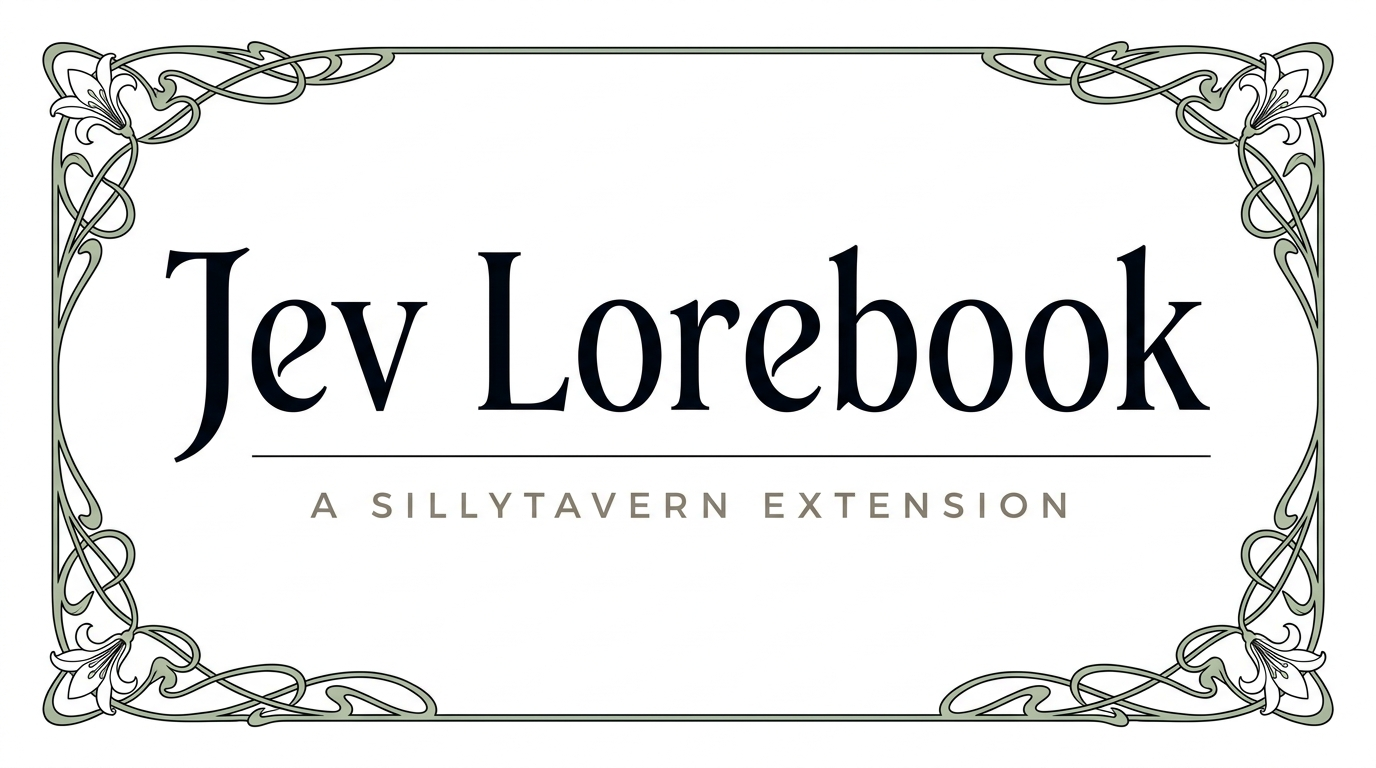
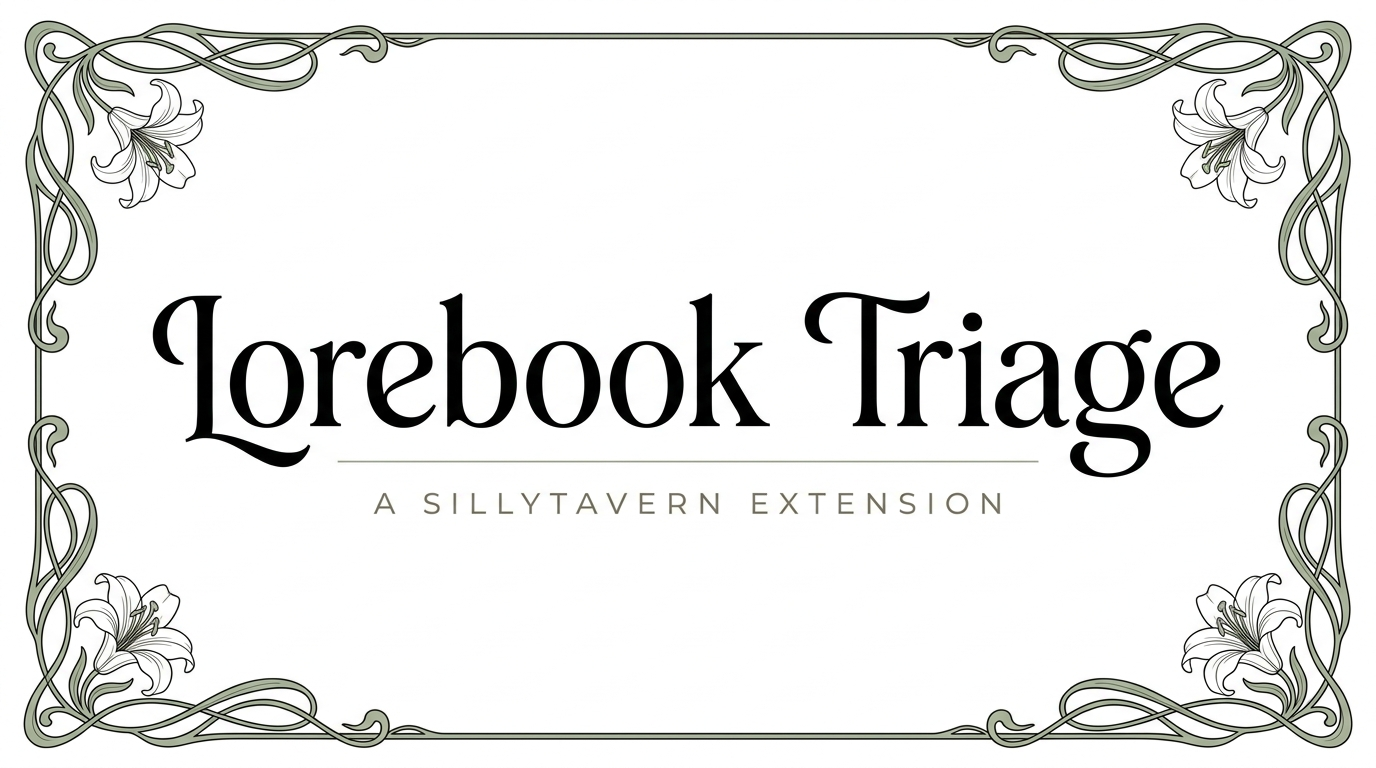
이름 확정: Lorebook Triage
- 확장 표시명·로그 프리픽스·템플릿 경로를 lorebook-triage로 통일
- 배너 재생성 (Lorebook Triage)
- Jev는 판정 API 이름으로만 남김

Changed region(s): [[0.0, 0.0312, 1.0, 1.0], [0.0938, 0.3125, 0.9062, 0.6875]]

diff --git a/index.js b/index.js
@@ -1,5 +1,5 @@
 /**
- * Jev Lorebook — 로어북 장기기억을 벡터 검색 + Jev 3축 판정으로 주입하는 확장 (v0.3, A안 배관)
+ * Lorebook Triage — 로어북 장기기억을 벡터 검색 + Jev 3축 판정으로 주입하는 확장 (v0.3, A안 배관)
  *
  * 흐름 (매 생성, generate_interceptor):
  *   최근 유저 메시지 → /api/vector/query (palm=Gemini) → 후보 topK
@@ -26,8 +26,8 @@ import { ConnectionManagerRequestService } from '../../shared.js';
 import { hideChatMessageRange } from '../../../chats.js';
 
 const MODULE = 'jevLorebook';
-const TEMPLATE_PATH = 'third-party/jev-lorebook';
-const LOG = '[Jev Lorebook]';
+const TEMPLATE_PATH = 'third-party/lorebook-triage';
+const LOG = '[Lorebook Triage]';
 
 // api.typesafe.ai는 브라우저 오리진을 CORS로 거부한다 → 서버 경유 필수. 전송 경로 2개를 자동 감지한다 (v0.4.1):
 // 1순위 — jev-proxy 서버 플러그인: 키는 X-Jev-Key 헤더 (Authorization은 basicAuthMode가 선점 — 2026-09-20 실측)
@@ -426,7 +426,7 @@ async function jevLorebookInterceptor(chat, _contextSize, _abort, type) {
     // quiet도 판정한다: QR/스크립트 경유 RP는 실턴이 전부 type=quiet로 들어온다 (2026-09-20 실측).
     // 같은 턴의 연쇄 quiet 생성은 아래 판정 캐시가 Jev 중복 호출을 막는다.
     if (!settings.jevApiKey) {
-        toastr.error('Jev API 키가 필요해요. 이번 턴은 주입 없이 넘어갈게요. (폴백은 없어요)', 'Jev Lorebook');
+        toastr.error('Jev API 키가 필요해요. 이번 턴은 주입 없이 넘어갈게요. (폴백은 없어요)', 'Lorebook Triage');
         return;
     }
 
@@ -564,7 +564,7 @@ async function jevLorebookInterceptor(chat, _contextSize, _abort, type) {
         lastError = { ts: Date.now(), message: String(error?.message ?? error) };
         jevTransport = null; // 판정 실패 → 다음 턴 전송 경로 재감지 (플러그인/프록시가 중간에 꺼진 경우 대응)
         console.error(`${LOG} 실패 — 이번 턴 주입 0 (폴백 없음)`, error);
-        toastr.error(`Jev 판정에 실패했어요: ${error?.message ?? error}. 이번 턴은 주입 없이 넘어갈게요.`, 'Jev Lorebook');
+        toastr.error(`Jev 판정에 실패했어요: ${error?.message ?? error}. 이번 턴은 주입 없이 넘어갈게요.`, 'Lorebook Triage');
     }
 }
 
@@ -609,7 +609,7 @@ async function indexLorebook() {
     const settings = getSettings();
     const worlds = getTargetWorlds();
     if (!worlds.length) {
-        toastr.warning('색인할 대상이 없어요. 이 채팅/캐릭터에 로어북을 연결하거나, 설정에서 고정 대상을 선택해 주세요.', 'Jev Lorebook');
+        toastr.warning('색인할 대상이 없어요. 이 채팅/캐릭터에 로어북을 연결하거나, 설정에서 고정 대상을 선택해 주세요.', 'Lorebook Triage');
         return;
     }
 
@@ -625,19 +625,19 @@ async function indexLorebook() {
         }
 
         if (!totalItems) {
-            toastr.warning('색인할 항목이 없어요 (활성 상태이면서 본문이 있는 항목이 없어요).', 'Jev Lorebook');
+            toastr.warning('색인할 항목이 없어요 (활성 상태이면서 본문이 있는 항목이 없어요).', 'Lorebook Triage');
             $status.text('');
             return;
         }
 
         $status.text(`색인 완료: ${worlds.length}개 로어북 / ${totalItems}개 항목 (${new Date().toLocaleTimeString()})`);
-        toastr.success(`${totalItems}개 항목 색인을 마쳤어요 — ${worlds.join(', ')}`, 'Jev Lorebook');
+        toastr.success(`${totalItems}개 항목 색인을 마쳤어요 — ${worlds.join(', ')}`, 'Lorebook Triage');
         settings.embeddingDirty = false; // 새 임베딩 설정으로 재색인 완료 — 경고 해제
         saveSettingsDebounced();
         $('#jev_lorebook_reindex_warning').hide();
     } catch (error) {
         console.error(`${LOG} 색인 실패`, error);
-        toastr.error(`색인에 실패했어요: ${error?.message ?? error}`, 'Jev Lorebook');
+        toastr.error(`색인에 실패했어요: ${error?.message ?? error}`, 'Lorebook Triage');
         $status.text('색인에 실패했어요');
     } finally {
         $button.removeClass('disabled');
@@ -831,19 +831,19 @@ function getConvertProfileLabel() {
  */
 async function convertChatToLorebook(setStatus) {
     if (conversionInProgress) {
-        toastr.warning('변환이 이미 진행 중이에요.', 'Jev Lorebook');
+        toastr.warning('변환이 이미 진행 중이에요.', 'Lorebook Triage');
         return;
     }
     const settings = getSettings();
     const ctx = SillyTavern.getContext();
     const world = getConversionTargetWorld();
     if (!world) {
-        toastr.error('대상 로어북이 없어요. 이 채팅 또는 캐릭터 카드에 로어북을 먼저 연결해 주세요. (자동으로 만들지는 않아요)', 'Jev Lorebook');
+        toastr.error('대상 로어북이 없어요. 이 채팅 또는 캐릭터 카드에 로어북을 먼저 연결해 주세요. (자동으로 만들지는 않아요)', 'Lorebook Triage');
         return;
     }
     const chat = ctx.chat ?? [];
     if (!chat.length) {
-        toastr.warning('채팅이 비어 있어요.', 'Jev Lorebook');
+        toastr.warning('채팅이 비어 있어요.', 'Lorebook Triage');
         return;
     }
     const keepRecent = Number.isFinite(Number(settings.keepRecent)) ? Math.max(0, Number(settings.keepRecent)) : defaultSettings.keepRecent;
@@ -851,7 +851,7 @@ async function convertChatToLorebook(setStatus) {
     const endIndex = chat.length - keepRecent; // 보존 버퍼 경계 — 변환·숨김 모두 여기까지만
     const fresh = endIndex > startIndex ? collectFreshMessages(chat, startIndex, endIndex) : [];
     if (!fresh.length) {
-        toastr.info(`변환할 새 메시지가 없어요 (변환 지점 ${startIndex}, 최근 ${keepRecent}개 보존, 전체 ${chat.length}).`, 'Jev Lorebook');
+        toastr.info(`변환할 새 메시지가 없어요 (변환 지점 ${startIndex}, 최근 ${keepRecent}개 보존, 전체 ${chat.length}).`, 'Lorebook Triage');
         return;
     }
 
@@ -944,12 +944,12 @@ async function convertChatToLorebook(setStatus) {
 
         const ms = Math.round(performance.now() - t0);
         setStatus(`완료: 사건 ${incidents.length}건 추가 · 코어 ${coreState ? '갱신' : '미갱신'} · ${indexed}개 색인 · 메시지 ${hiddenCount}개 변환·숨김, 최근 ${keepRecent}개 유지 (${ms}ms)`);
-        toastr.success(`변환을 마쳤어요: 사건 ${incidents.length}건 · 메시지 ${hiddenCount}개 숨김 · 최근 ${keepRecent}개는 원문 유지 — ${world}. 여기를 누르면 에디터에서 바로 확인할 수 있어요.`, 'Jev Lorebook', { onclick: () => openWorldEditor(world), timeOut: 10000 });
+        toastr.success(`변환을 마쳤어요: 사건 ${incidents.length}건 · 메시지 ${hiddenCount}개 숨김 · 최근 ${keepRecent}개는 원문 유지 — ${world}. 여기를 누르면 에디터에서 바로 확인할 수 있어요.`, 'Lorebook Triage', { onclick: () => openWorldEditor(world), timeOut: 10000 });
         console.log(`${LOG} 변환 완료 — 사건 ${incidents.length}건 / 변환 지점 ${startIndex}→${endIndex} / 숨김 ${hiddenCount}개 / ${ms}ms`);
     } catch (error) {
         console.error(`${LOG} 변환 실패`, error);
         setStatus(`실패했어요: ${error?.message ?? error}`);
-        toastr.error(`변환에 실패했어요: ${error?.message ?? error}`, 'Jev Lorebook');
+        toastr.error(`변환에 실패했어요: ${error?.message ?? error}`, 'Lorebook Triage');
     } finally {
         conversionInProgress = false;
     }
@@ -1067,7 +1067,7 @@ async function runSplitForWorld(world, uids, setStatus) {
 async function openSplitDialog(setStatus, $panel) {
     const worlds = getTargetWorlds();
     if (!worlds.length) {
-        toastr.error('대상 로어북이 없어요. 이 채팅/캐릭터에 로어북을 연결하거나 고정 대상을 설정해 주세요.', 'Jev Lorebook');
+        toastr.error('대상 로어북이 없어요. 이 채팅/캐릭터에 로어북을 연결하거나 고정 대상을 설정해 주세요.', 'Lorebook Triage');
         return;
     }
 
@@ -1110,7 +1110,7 @@ async function openSplitDialog(setStatus, $panel) {
     }
 
     if (!listedCount) {
-        toastr.info('스플릿할 항목이 없어요 (본문이 있는 항목이 없어요).', 'Jev Lorebook');
+        toastr.info('스플릿할 항목이 없어요 (본문이 있는 항목이 없어요).', 'Lorebook Triage');
         return;
     }
     $dialog.append($('<div class="jev-panel-muted">').text(`기본으로 ${candidateCount}개를 체크해 뒀어요 = 스플릿 후보 (날짜헤더 2개 이상 또는 대형 constant). 목록을 확인하고 체크를 자유롭게 바꾸셔도 돼요.`));
@@ -1135,7 +1135,7 @@ async function openSplitDialog(setStatus, $panel) {
         selection.get(world).push(uid);
     });
     if (!selection.size) {
-        toastr.info('선택된 항목이 없어서 아무것도 바꾸지 않았어요.', 'Jev Lorebook');
+        toastr.info('선택된 항목이 없어서 아무것도 바꾸지 않았어요.', 'Lorebook Triage');
         return;
     }
 
@@ -1151,7 +1151,7 @@ async function openSplitDialog(setStatus, $panel) {
         }
         setStatus(`스플릿 완료: ${totalSplit}항목 → ${totalChunks}덩어리 · 백업: ${backups.join(', ')}`);
         const firstWorld = selection.keys().next().value;
-        toastr.success(`${totalSplit}개 항목을 ${totalChunks}개 덩어리로 나눴어요. 백업: ${backups.join(', ')}. 여기를 누르면 에디터에서 바로 확인할 수 있어요.`, 'Jev Lorebook', { onclick: () => openWorldEditor(firstWorld), timeOut: 10000 });
+        toastr.success(`${totalSplit}개 항목을 ${totalChunks}개 덩어리로 나눴어요. 백업: ${backups.join(', ')}. 여기를 누르면 에디터에서 바로 확인할 수 있어요.`, 'Lorebook Triage', { onclick: () => openWorldEditor(firstWorld), timeOut: 10000 });
         if ($panel) {
             renderPanelSummary($panel);
             await renderPanelChunks($panel);
@@ -1159,7 +1159,7 @@ async function openSplitDialog(setStatus, $panel) {
     } catch (error) {
         console.error(`${LOG} 스플릿 실패`, error);
         setStatus(`스플릿에 실패했어요: ${error?.message ?? error}`);
-        toastr.error(`스플릿에 실패했어요: ${error?.message ?? error}`, 'Jev Lorebook');
+        toastr.error(`스플릿에 실패했어요: ${error?.message ?? error}`, 'Lorebook Triage');
     }
 }
 
@@ -1346,7 +1346,7 @@ async function openDetailPanel() {
         if ($button.hasClass('disabled')) return;
         const worlds = getTargetWorlds();
         if (!worlds.length) {
-            toastr.warning('색인 대상이 없다.', 'Jev Lorebook');
+            toastr.warning('색인 대상이 없다.', 'Lorebook Triage');
             return;
         }
         $button.addClass('disabled');
@@ -1359,7 +1359,7 @@ async function openDetailPanel() {
             await renderPanelChunks($panel);
         } catch (error) {
             setConvertStatus(`재색인 실패: ${error?.message ?? error}`);
-            toastr.error(`재색인 실패: ${error?.message ?? error}`, 'Jev Lorebook');
+            toastr.error(`재색인 실패: ${error?.message ?? error}`, 'Lorebook Triage');
         } finally {
             $button.removeClass('disabled');
         }
@@ -1379,7 +1379,7 @@ async function openDetailPanel() {
     $panel.find('#jev_panel_open_editor').on('click', function () {
         const world = getConversionTargetWorld();
         if (!world) {
-            toastr.warning('열 로어북이 없어요. 이 채팅/캐릭터에 로어북을 연결해 주세요.', 'Jev Lorebook');
+            toastr.warning('열 로어북이 없어요. 이 채팅/캐릭터에 로어북을 연결해 주세요.', 'Lorebook Triage');
             return;
         }
         openWorldEditor(world);
@@ -1527,7 +1527,7 @@ jQuery(async () => {
         <div id="jev_lorebook_wand_container" class="extension_container">
             <div id="jev_lorebook_wand_item" class="list-group-item flex-container flexGap5">
                 <div class="fa-solid fa-scale-balanced extensionsMenuExtensionButton"></div>
-                <span>Jev Lorebook</span>
+                <span>Lorebook Triage</span>
             </div>
         </div>`;
     $('#extensionsMenu').append(wandHtml);

diff --git a/panel.html b/panel.html
@@ -1,6 +1,6 @@
 <div class="jev-lorebook-panel">
     <div class="jev-panel-header">
-        <h3>Jev Lorebook — 세부</h3>
+        <h3>Lorebook Triage — 세부</h3>
         <div id="jev_panel_refresh" class="menu_button menu_button_icon" title="패널을 새로고침해요">
             <i class="fa-solid fa-rotate"></i>
             <span>새로고침</span>

diff --git a/settings.html b/settings.html
@@ -1,7 +1,7 @@
 <div class="jev-lorebook-settings">
     <div class="inline-drawer">
         <div class="inline-drawer-toggle inline-drawer-header">
-            <b>Jev Lorebook</b>
+            <b>Lorebook Triage</b>
             <div class="inline-drawer-icon fa-solid fa-circle-chevron-down down"></div>
         </div>
         <div class="inline-drawer-content">
